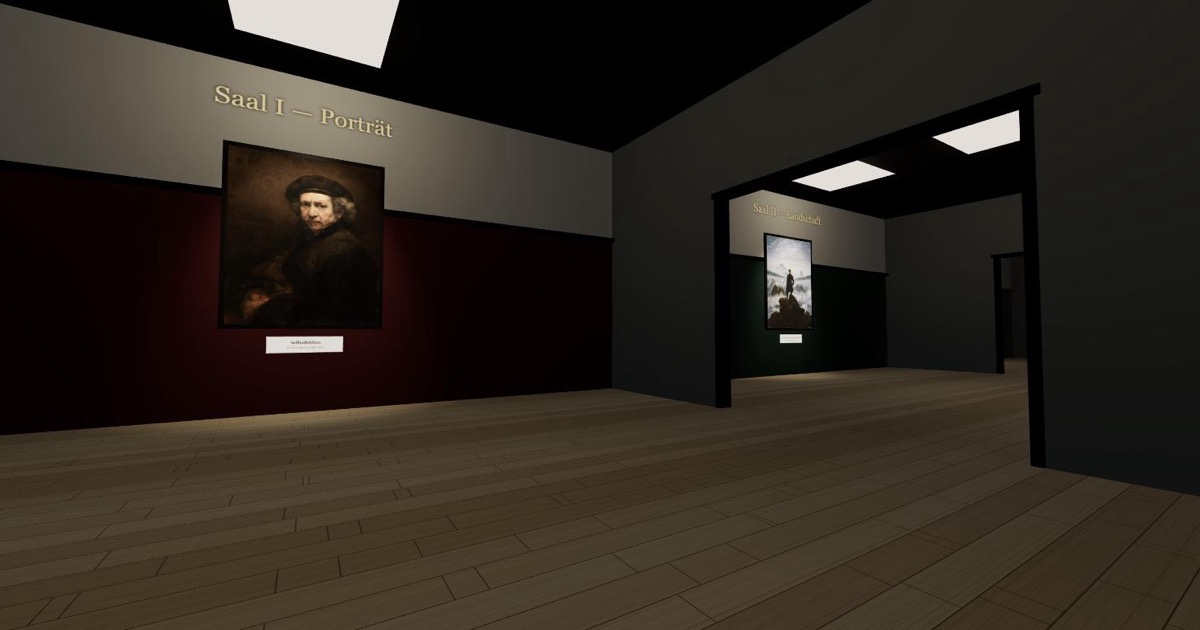
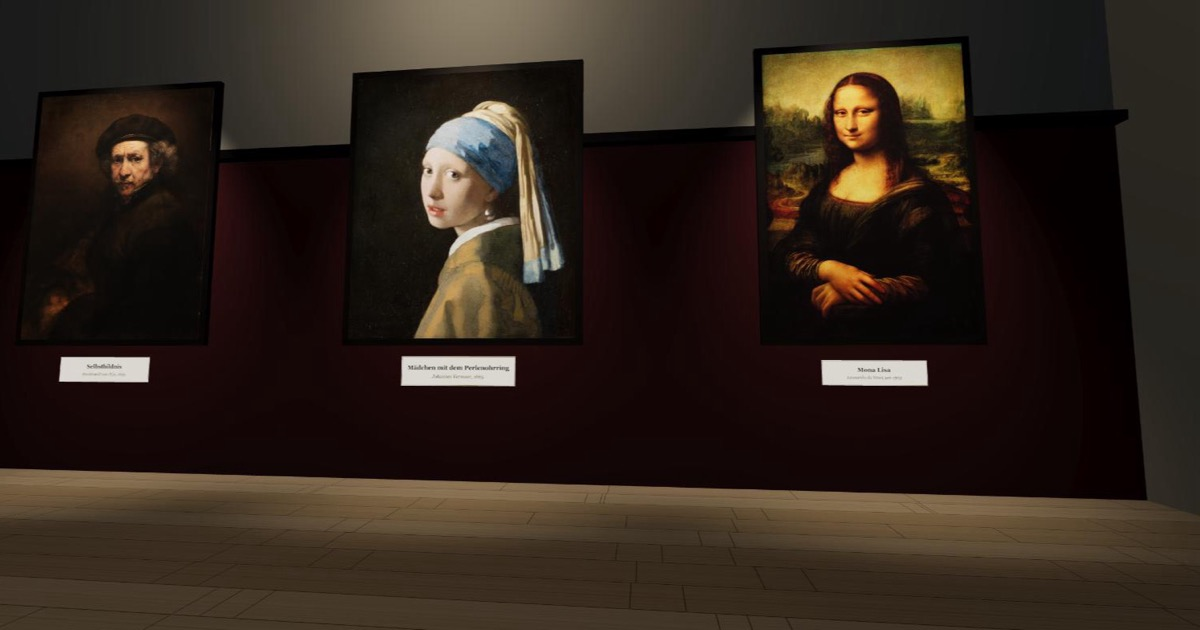
Hang six more paintings: five per hall instead of three
Each hall now shows three works on the back wall and two facing them.
New: van Gogh's 1889 self-portrait and the Arnolfini Portrait; Hokusai's
Great Wave and Turner's Temeraire; Franz Marc's Blue Horse I and Mondrian's
Composition II.

Every URL and aspect ratio came from the Commons API rather than guesswork,
and each was checked to return 200. The date metadata was worth reading: the
obvious van Gogh self-portrait file is dated 1887, not 1889.

- Switch all artwork to 1280px Commons thumbnails. Some originals are huge
  (Starry Night is 44567x35291) and fifteen full-size textures would have run
  to gigabytes of GPU memory.
- Drop the second fill spot per painting. The renderer is forward, so 15
  paintings would otherwise mean 41 lights; with an emissive canvas the fill
  barely registered, and a higher penumbra gives the soft edge. 26 lights now,
  fewer than the 29 before.
- Replace the hardcoded 2+1 placement with a shared placePainting helper.

Refresh the screenshot and social card, and list the collection in the README.

diff --git a/index.html b/index.html
@@ -128,8 +128,8 @@ const DOOR_H = 4.8;
 
 // Bounding-Box, in die jedes Gemälde unverzerrt eingepasst wird (Seitenverhältnis bleibt erhalten)
 const PAINT_MAX_H = 3.5;
-const PAINT_MAX_W_SIDE = 4.0;   // Rückwand: zwei Bilder nebeneinander
-const PAINT_MAX_W_FRONT = 4.4;  // Frontwand: ein Bild allein, mehr Platz
+const PAINT_MAX_W_BACK = 3.8;   // Rückwand: drei Bilder nebeneinander
+const PAINT_MAX_W_FRONT = 4.2;  // Frontwand: zwei Bilder, etwas mehr Platz je Bild
 
 // ratio = Höhe/Breite des Originalbilds; liefert die größte Größe, die in die Box passt
 function fitPaintingSize(ratio, maxW, maxH) {
@@ -145,9 +145,13 @@ const ROOMS = [
     // floor tönt die Dielentextur nur noch leicht ein (multipliziert), daher hell halten
     floor: 0xf2e6d4,
     paintings: [
-      { title: 'Mona Lisa', artist: 'Leonardo da Vinci, um 1503', url: 'https://upload.wikimedia.org/wikipedia/commons/6/6a/Mona_Lisa.jpg', ratio: 1.513 },
-      { title: 'Mädchen mit dem Perlenohrring', artist: 'Johannes Vermeer, 1665', url: 'https://upload.wikimedia.org/wikipedia/commons/thumb/0/0f/1665_Girl_with_a_Pearl_Earring.jpg/3840px-1665_Girl_with_a_Pearl_Earring.jpg', ratio: 1.184 },
-      { title: 'Selbstbildnis', artist: 'Rembrandt van Rijn, 1659', url: 'https://upload.wikimedia.org/wikipedia/commons/thumb/b/bd/Rembrandt_van_Rijn_-_Self-Portrait_-_Google_Art_Project.jpg/3840px-Rembrandt_van_Rijn_-_Self-Portrait_-_Google_Art_Project.jpg', ratio: 1.295 },
+      // Rückwand (drei Bilder)
+      { title: 'Mona Lisa', artist: 'Leonardo da Vinci, um 1503', url: 'https://upload.wikimedia.org/wikipedia/commons/thumb/6/6a/Mona_Lisa.jpg/1280px-Mona_Lisa.jpg', ratio: 1.513 },
+      { title: 'Mädchen mit dem Perlenohrring', artist: 'Johannes Vermeer, 1665', url: 'https://upload.wikimedia.org/wikipedia/commons/thumb/0/0f/1665_Girl_with_a_Pearl_Earring.jpg/1280px-1665_Girl_with_a_Pearl_Earring.jpg', ratio: 1.184 },
+      { title: 'Selbstbildnis', artist: 'Rembrandt van Rijn, 1659', url: 'https://upload.wikimedia.org/wikipedia/commons/thumb/b/bd/Rembrandt_van_Rijn_-_Self-Portrait_-_Google_Art_Project.jpg/1280px-Rembrandt_van_Rijn_-_Self-Portrait_-_Google_Art_Project.jpg', ratio: 1.295 },
+      // Frontwand (zwei Bilder)
+      { title: 'Selbstbildnis', artist: 'Vincent van Gogh, 1889', url: 'https://upload.wikimedia.org/wikipedia/commons/thumb/b/b2/Vincent_van_Gogh_-_Self-Portrait_-_Google_Art_Project.jpg/1280px-Vincent_van_Gogh_-_Self-Portrait_-_Google_Art_Project.jpg', ratio: 1.216 },
+      { title: 'Die Arnolfini-Hochzeit', artist: 'Jan van Eyck, 1434', url: 'https://upload.wikimedia.org/wikipedia/commons/thumb/3/33/Van_Eyck_-_Arnolfini_Portrait.jpg/1280px-Van_Eyck_-_Arnolfini_Portrait.jpg', ratio: 1.368 },
     ]
   },
   {
@@ -155,9 +159,13 @@ const ROOMS = [
     accent: 0x2f4a3d,      // Salbeigrün
     floor: 0xece2d2,
     paintings: [
-      { title: 'Sternennacht', artist: 'Vincent van Gogh, 1889', url: 'https://upload.wikimedia.org/wikipedia/commons/thumb/e/ea/Van_Gogh_-_Starry_Night_-_Google_Art_Project.jpg/3840px-Van_Gogh_-_Starry_Night_-_Google_Art_Project.jpg', ratio: 0.792 },
-      { title: 'Impression, Sonnenaufgang', artist: 'Claude Monet, 1872', url: 'https://upload.wikimedia.org/wikipedia/commons/thumb/5/59/Monet_-_Impression%2C_Sunrise.jpg/3840px-Monet_-_Impression%2C_Sunrise.jpg', ratio: 0.776 },
-      { title: 'Der Wanderer über dem Nebelmeer', artist: 'Caspar David Friedrich, 1818', url: 'https://upload.wikimedia.org/wikipedia/commons/thumb/a/af/Caspar_David_Friedrich_-_Wanderer_above_the_Sea_of_Fog.jpeg/3840px-Caspar_David_Friedrich_-_Wanderer_above_the_Sea_of_Fog.jpeg', ratio: 1.283 },
+      // Rückwand (drei Bilder)
+      { title: 'Sternennacht', artist: 'Vincent van Gogh, 1889', url: 'https://upload.wikimedia.org/wikipedia/commons/thumb/e/ea/Van_Gogh_-_Starry_Night_-_Google_Art_Project.jpg/1280px-Van_Gogh_-_Starry_Night_-_Google_Art_Project.jpg', ratio: 0.792 },
+      { title: 'Impression, Sonnenaufgang', artist: 'Claude Monet, 1872', url: 'https://upload.wikimedia.org/wikipedia/commons/thumb/5/59/Monet_-_Impression%2C_Sunrise.jpg/1280px-Monet_-_Impression%2C_Sunrise.jpg', ratio: 0.776 },
+      { title: 'Der Wanderer über dem Nebelmeer', artist: 'Caspar David Friedrich, 1818', url: 'https://upload.wikimedia.org/wikipedia/commons/thumb/a/af/Caspar_David_Friedrich_-_Wanderer_above_the_Sea_of_Fog.jpeg/1280px-Caspar_David_Friedrich_-_Wanderer_above_the_Sea_of_Fog.jpeg', ratio: 1.283 },
+      // Frontwand (zwei Bilder) — Querformate, dort ist mehr Breite je Bild
+      { title: 'Die große Welle vor Kanagawa', artist: 'Katsushika Hokusai, um 1831', url: 'https://upload.wikimedia.org/wikipedia/commons/thumb/0/0a/The_Great_Wave_off_Kanagawa.jpg/1280px-The_Great_Wave_off_Kanagawa.jpg', ratio: 0.69 },
+      { title: 'Die letzte Fahrt der Temeraire', artist: 'William Turner, 1839', url: 'https://upload.wikimedia.org/wikipedia/commons/thumb/3/30/The_Fighting_Temeraire%2C_JMW_Turner%2C_National_Gallery.jpg/1280px-The_Fighting_Temeraire%2C_JMW_Turner%2C_National_Gallery.jpg', ratio: 0.743 },
     ]
   },
   {
@@ -165,9 +173,13 @@ const ROOMS = [
     accent: 0x3a3320,      // dunkles Gold
     floor: 0xf4e8d2,
     paintings: [
-      { title: 'Der Kuss', artist: 'Gustav Klimt, 1908', url: 'https://upload.wikimedia.org/wikipedia/commons/thumb/4/40/The_Kiss_-_Gustav_Klimt_-_Google_Cultural_Institute.jpg/3840px-The_Kiss_-_Gustav_Klimt_-_Google_Cultural_Institute.jpg', ratio: 1.003 },
-      { title: 'Der Schrei', artist: 'Edvard Munch, 1893', url: 'https://upload.wikimedia.org/wikipedia/commons/f/f4/The_Scream.jpg', ratio: 1.274 },
-      { title: 'Komposition VIII', artist: 'Wassily Kandinsky, 1923', url: 'https://upload.wikimedia.org/wikipedia/commons/thumb/8/80/Kandinsky_-_Composition_8%2C_July_1923.jpg/3840px-Kandinsky_-_Composition_8%2C_July_1923.jpg', ratio: 0.728 },
+      // Rückwand (drei Bilder)
+      { title: 'Der Kuss', artist: 'Gustav Klimt, 1908', url: 'https://upload.wikimedia.org/wikipedia/commons/thumb/4/40/The_Kiss_-_Gustav_Klimt_-_Google_Cultural_Institute.jpg/1280px-The_Kiss_-_Gustav_Klimt_-_Google_Cultural_Institute.jpg', ratio: 1.003 },
+      { title: 'Der Schrei', artist: 'Edvard Munch, 1893', url: 'https://upload.wikimedia.org/wikipedia/commons/thumb/f/f4/The_Scream.jpg/1280px-The_Scream.jpg', ratio: 1.274 },
+      { title: 'Blaues Pferd I', artist: 'Franz Marc, 1911', url: 'https://upload.wikimedia.org/wikipedia/commons/thumb/8/82/Marc%2C_Franz_-_Blue_Horse_I_-_Google_Art_Project.jpg/1280px-Marc%2C_Franz_-_Blue_Horse_I_-_Google_Art_Project.jpg', ratio: 1.335 },
+      // Frontwand (zwei Bilder)
+      { title: 'Komposition VIII', artist: 'Wassily Kandinsky, 1923', url: 'https://upload.wikimedia.org/wikipedia/commons/thumb/8/80/Kandinsky_-_Composition_8%2C_July_1923.jpg/1280px-Kandinsky_-_Composition_8%2C_July_1923.jpg', ratio: 0.728 },
+      { title: 'Komposition II in Rot, Blau und Gelb', artist: 'Piet Mondrian, 1930', url: 'https://upload.wikimedia.org/wikipedia/commons/thumb/a/a4/Piet_Mondriaan%2C_1930_-_Mondrian_Composition_II_in_Red%2C_Blue%2C_and_Yellow.jpg/1280px-Piet_Mondriaan%2C_1930_-_Mondrian_Composition_II_in_Red%2C_Blue%2C_and_Yellow.jpg', ratio: 1.014 },
     ]
   },
 ];
@@ -384,20 +396,16 @@ function buildPainting(def, maxW, maxH) {
   // Strahler wie im Museum: enger, weicher Kegel dicht an der Wand statt
   // Flutlicht — sonst überstrahlt der Lichtfleck Bild und Wand.
   // Feste Höhe relativ zur Decke (nicht von h abhängig), damit hohe Hochformate die Leuchte nicht durch die Decke schieben
-  const spot = new THREE.SpotLight(0xfff4e0, 11, 13, THREE.MathUtils.degToRad(30), 0.8, 1.25);
+  // Genau ein Strahler je Bild: bei 15 Gemälden zählt jede Lichtquelle doppelt,
+  // weil der Forward-Renderer sie für jedes Fragment durchläuft. Der frühere
+  // zweite Streulichtkegel entfällt — seit die Leinwand emissiv ist, trug er
+  // kaum bei; die weiche Kante liefert stattdessen die höhere Penumbra.
+  const spot = new THREE.SpotLight(0xfff4e0, 13, 13, THREE.MathUtils.degToRad(32), 0.92, 1.25);
   spot.position.set(0, ROOM_H * 0.5 - 0.5, 1.7);
   spot.target = canvasMesh;
   spot.castShadow = false;
   group.add(spot);
   group.add(spot.target);
-
-  // sehr dezenter Streulichtkegel, damit die Ränder nicht hart abreißen
-  const fill = new THREE.SpotLight(0xfff4e0, 3.5, 9, THREE.MathUtils.degToRad(48), 0.95, 1.4);
-  fill.position.set(0, ROOM_H * 0.5 - 1.5, 1.4);
-  fill.target = canvasMesh;
-  fill.castShadow = false;
-  group.add(fill);
-  group.add(fill.target);
 
   return group;
 }
@@ -547,36 +555,28 @@ function buildRoom(index, def) {
   sign.position.set(ROOM_W / 2, ROOM_H - 0.9, WALL_T + 0.02);
   group.add(sign);
 
-  // Gemälde platzieren: 2 an der Rückwand, 1 an der Frontwand
-  const back = def.paintings;
-  const positionsBack = [ROOM_W * 0.28, ROOM_W * 0.72];
-  [0, 1].forEach((i) => {
-    const p = buildPainting(back[i], PAINT_MAX_W_SIDE, PAINT_MAX_H);
-    p.position.set(positionsBack[i], ROOM_H * 0.5, ROOM_D - WALL_T - 0.02);
-    p.rotation.y = Math.PI;
+  // Gemälde platzieren: drei an der Rückwand, zwei an der Frontwand
+  function placePainting(pdef, x, onBackWall, maxW) {
+    const z = onBackWall ? ROOM_D - WALL_T - 0.02 : WALL_T + 0.02;
+    const p = buildPainting(pdef, maxW, PAINT_MAX_H);
+    p.position.set(x, ROOM_H * 0.5, z);
+    if (onBackWall) p.rotation.y = Math.PI;
     group.add(p);
     paintingHotspots.push({
       mesh: p.userData.canvasMesh,
-      worldPos: new THREE.Vector3(originX + p.position.x, p.position.y, p.position.z),
-      normal: new THREE.Vector3(0, 0, -1),
+      worldPos: new THREE.Vector3(originX + x, p.position.y, z),
+      normal: new THREE.Vector3(0, 0, onBackWall ? -1 : 1),
       width: p.userData.width,
       height: p.userData.height,
-      title: back[i].title,
-      artist: back[i].artist,
+      title: pdef.title,
+      artist: pdef.artist,
     });
-  });
-  const front = buildPainting(back[2], PAINT_MAX_W_FRONT, PAINT_MAX_H);
-  front.position.set(ROOM_W / 2, ROOM_H * 0.5, WALL_T + 0.02);
-  group.add(front);
-  paintingHotspots.push({
-    mesh: front.userData.canvasMesh,
-    worldPos: new THREE.Vector3(originX + front.position.x, front.position.y, front.position.z),
-    normal: new THREE.Vector3(0, 0, 1),
-    width: front.userData.width,
-    height: front.userData.height,
-    title: back[2].title,
-    artist: back[2].artist,
-  });
+  }
+
+  const BACK_X = [0.19, 0.5, 0.81];
+  const FRONT_X = [0.3, 0.7];
+  BACK_X.forEach((f, i) => placePainting(def.paintings[i], ROOM_W * f, true, PAINT_MAX_W_BACK));
+  FRONT_X.forEach((f, i) => placePainting(def.paintings[BACK_X.length + i], ROOM_W * f, false, PAINT_MAX_W_FRONT));
 
   scene.add(group);
 }

diff --git a/CLAUDE.md b/CLAUDE.md
@@ -8,13 +8,15 @@ A walkable 3D art museum rendered entirely client-side with Three.js. The whole 
 
 ## Architecture (all in `index.html`)
 
-- **Data**: `ROOMS` array defines three galleries (Portrait, Landscape, Modern), each with an accent color, floor color, and three paintings (title, artist, image URL, aspect ratio).
+- **Data**: `ROOMS` array defines three galleries (Portrait, Landscape, Modern), each with an accent color, floor tint, and **five** paintings (title, artist, image URL, aspect ratio). Order matters: the first three go on the back wall, the last two on the front wall — `buildRoom` slices by index, so adding a sixth entry silently does nothing until `BACK_X`/`FRONT_X` grow too.
+- **Artwork URLs**: 1280px Commons thumbnails, not originals. Several originals are enormous (Starry Night is 44567×35291) and fifteen full-size textures would run to gigabytes of GPU memory. 1280px is ample for a painting under 4 m wide, even in close-up. When adding a work, get the URL and true `ratio` (height÷width) from the Commons API rather than guessing — and check `DateTimeOriginal`, since file titles often omit or misstate the year.
 - **Scene setup**: standard Three.js scene/camera/renderer boilerplate, ACES tone mapping, fog for depth.
 - **Floor**: `makeWoodFloorTexture` draws light oak planks onto a 1024² canvas once at startup (per-plank color variation, wavy grain, staggered butt joints, seams) and repeats the tile across every floor — one tile ≈ 3.5 m, so planks read about 35 cm wide. Grain strokes must return to their starting y at the tile's right edge or the repeat shows a seam. Each room's `floor` value is now a near-white *tint* multiplied over that texture, not a solid color — dark values there would cancel the planks out.
 - **Room construction** (`buildRoom`): builds floor, ceiling with light panels, front/back walls (two-tone: accent lower band, light upper band), side walls, and a genre sign above the entrance.
 - **Dividing walls** (`buildSideWall`): outer sides are a single plane; between two halls it builds a solid wall with a wide opening (`DOOR_W` × `DOOR_H`) — two box segments either side, a header above, and dark trim jambs. Boxes, not planes, because the wall is seen from both rooms. **The divider is built only by the left of the two halls** (`xLocal === ROOM_W`); both neighbours otherwise place identical geometry at the same world x, giving z-fighting and doubled colliders.
 - **Painting construction** (`buildPainting`): fits each painting's texture into a bounding box preserving aspect ratio, adds a frame, a placard (rendered to a canvas texture), and two spotlights.
-- **Painting lighting** — deliberately tuned, don't undo it casually: the canvas material is near-matte (`roughness: 0.98`) and carries the texture as an `emissiveMap` at `emissiveIntensity: 0.45`, so the artwork shows its true colors independent of the lights. Spots are narrow (30°) and dim (11) rather than floodlights. The earlier glossy material under a 42-intensity, 54° spot put a specular sheen over every painting and a white halo on the wall. Room brightness comes from the ceiling `PointLight`s, not the picture lights — raise those if a hall looks too dark, not the spots.
+- **Painting lighting** — deliberately tuned, don't undo it casually: the canvas material is near-matte (`roughness: 0.98`) and carries the texture as an `emissiveMap` at `emissiveIntensity: 0.45`, so the artwork shows its true colors independent of the lights. Spots are narrow (32°) and dim (13) rather than floodlights. The earlier glossy material under a 42-intensity, 54° spot put a specular sheen over every painting and a white halo on the wall. Room brightness comes from the ceiling `PointLight`s, not the picture lights — raise those if a hall looks too dark, not the spots.
+- **Light budget**: exactly **one** spot per painting. The renderer is forward, so every light is evaluated per fragment; 15 paintings × 2 lights plus the ceiling lights would be 41. A second, softer fill cone used to exist and was dropped — with an emissive canvas it barely registered, and the soft edge now comes from a higher `penumbra`. Current total is 15 spots + 9 points + hemisphere + directional = 26.
 - **Collision**: simple AABB colliders (`colliders` array) checked against a circular player radius in `resolveCollision`.
 - **Look**: dragging rotates the camera using the "grab" metaphor — the scene follows the pointer, as in Street View or OrbitControls (`applyLook` *adds* the delta to yaw/pitch; an FPS scheme would subtract it). No Pointer Lock API, so the cursor stays free to click things.
 - **Movement**: WASD/arrows feed `velFwd`/`velStrafe`, which are lerped toward the input each frame for smooth start/stop; the scroll wheel adds to `wheelVel`, an impulse that decays exponentially. Both are applied along the camera yaw in the render loop.

diff --git a/README.md b/README.md
@@ -1,6 +1,6 @@
 # 3D Museum
 
-A walkable 3D art gallery in the browser — three themed halls (Portrait, Landscape, Modern), nine masterpieces, built with [Three.js](https://threejs.org/). Single self-contained `index.html`, no build step, no dependencies to install.
+A walkable 3D art gallery in the browser — three themed halls (Portrait, Landscape, Modern), fifteen masterpieces, built with [Three.js](https://threejs.org/). Single self-contained `index.html`, no build step, no dependencies to install.
 
 **[Live demo →](https://helmutqualtinger.github.io/Museum3d/)**
 
@@ -11,7 +11,7 @@ A walkable 3D art gallery in the browser — three themed halls (Portrait, Lands
 - Navigation that follows familiar web conventions — drag to look, click the floor to walk there, click a painting to view it
 - Three galleries: Portrait, Landscape, and Modern art, each with its own accent color and lighting, separated by walls with wide doorways that frame the view down the enfilade
 - Light oak plank flooring, generated procedurally at startup — no texture files to download
-- High-resolution paintings loaded from Wikimedia Commons, lit by narrow spots that pick out the artwork without washing it out
+- Fifteen paintings loaded from Wikimedia Commons — five per hall, three on the back wall and two facing them — each lit by a narrow spot that picks out the artwork without washing it out
 - Hovering a painting shows its title and artist; clicking walks you up to it, even from another hall
 - Collision detection against walls so you can't walk through them
 - Works on touch devices: drag to look, tap to select
@@ -27,6 +27,16 @@ A walkable 3D art gallery in the browser — three themed halls (Portrait, Lands
 | Leave the close-up | Click beside the painting, the **← Zurück** button, or `Esc` |
 | Move | `W` `A` `S` `D` / arrow keys, or the scroll wheel |
 | Menu | `Esc` |
+
+## The collection
+
+| Hall | Works |
+| --- | --- |
+| I — Porträt | Mona Lisa · Mädchen mit dem Perlenohrring · Selbstbildnis (Rembrandt) · Selbstbildnis (van Gogh) · Die Arnolfini-Hochzeit |
+| II — Landschaft | Sternennacht · Impression, Sonnenaufgang · Der Wanderer über dem Nebelmeer · Die große Welle vor Kanagawa · Die letzte Fahrt der Temeraire |
+| III — Moderne | Der Kuss · Der Schrei · Blaues Pferd I · Komposition VIII · Komposition II in Rot, Blau und Gelb |
+
+All images are public-domain reproductions served from Wikimedia Commons.
 
 ## Running locally
 
